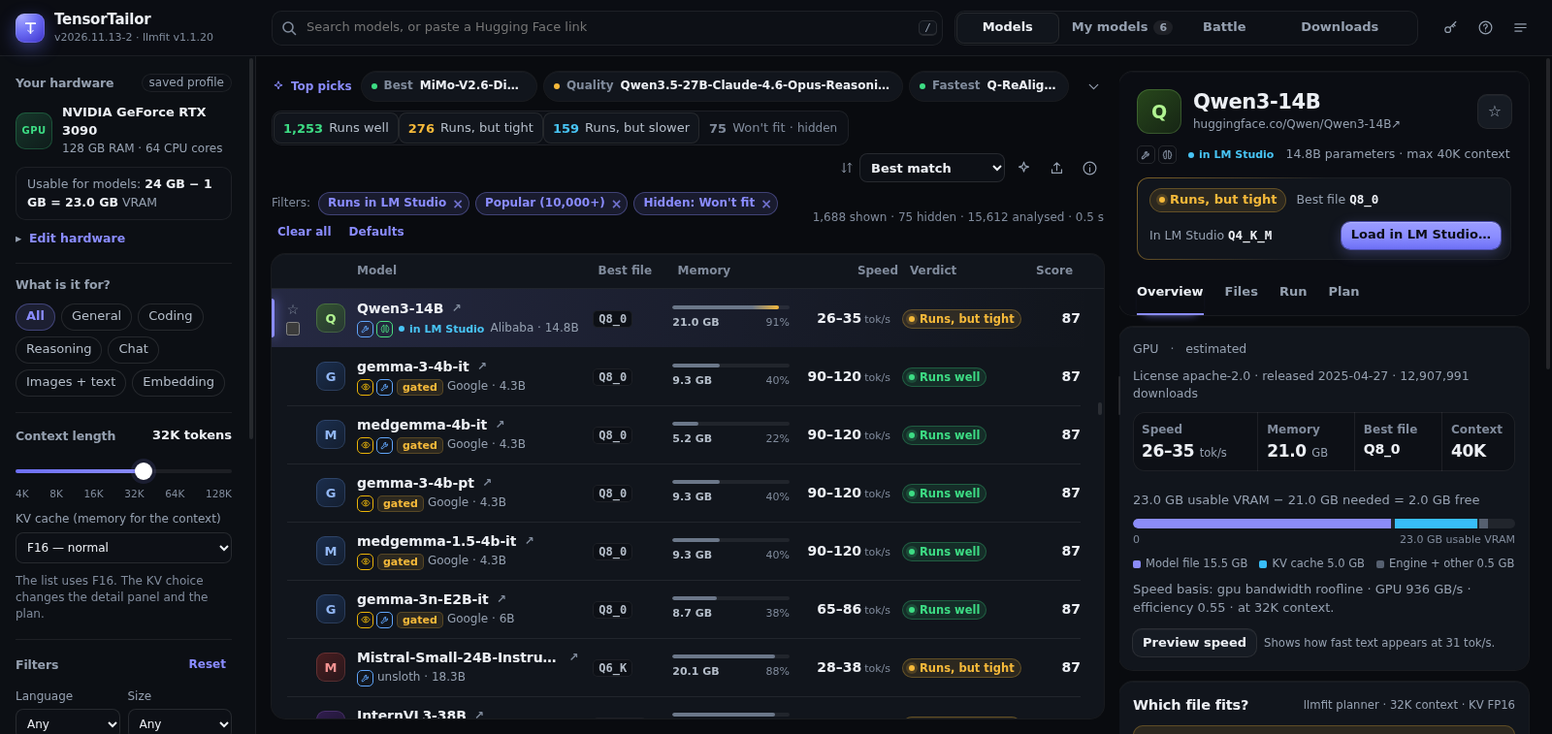
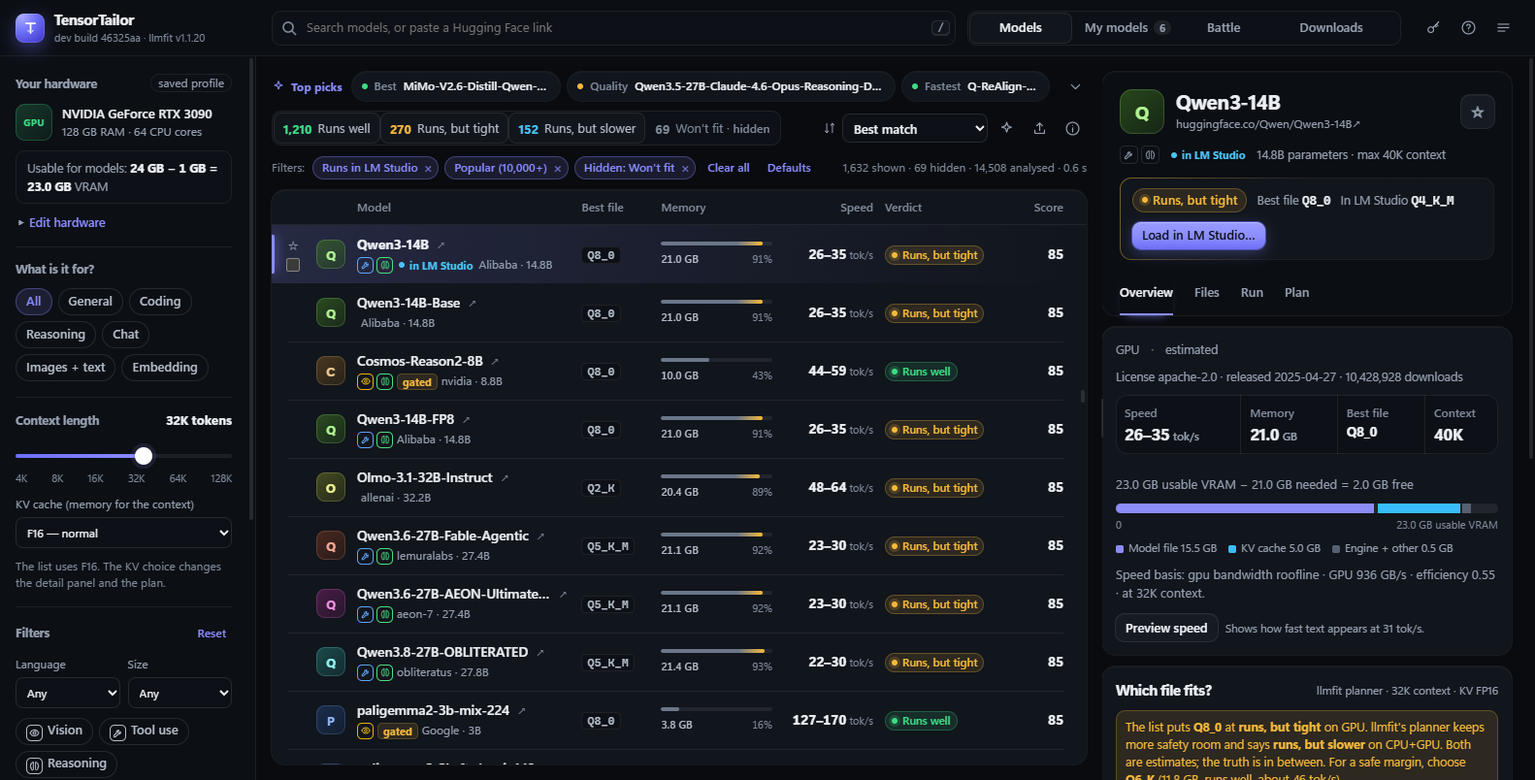
Implemented by Claude Opus 5.5: fix(web): column heads exactly above their columns; nothing runs over a cell
Found by the user (AutoRound-2bit over the Memory column, heads out of line)
and by an overflow scan of every view at 1366 and 1920 px:
- The head row gets the width of the list's scroll bar (syncColsGutter), so
  each head starts and ends with its column; Speed and Score heads are
  right-aligned above their numbers (user's choice: text left, numbers right).
- Long best-file names (AutoRound-2bit, GPTQ-Int4, AWQ-8bit) are smaller and
  break after their "-", in the list and in the detail panel.
- Speeds from 1,000 tok/s show without the unit, from 10,000 as "153k-204k".
- The label line under a name: the number of parameters always shows (the
  publisher may shorten); labels never shrink into cut words, a too full line
  leaves out whole labels (license, live, measured, NEW) and says which.
- Run tab commands wrap instead of being cut; a long Battle name gets 2 lines;
  the full model name is in the row's tooltip.
Help: Speed, "A full label line". Test step "Layout" in tools/test-review3.json.

diff --git a/web/app.html b/web/app.html
@@ -267,9 +267,13 @@ input[type="range"] { width: 100%; accent-color: var(--accent); }
 .m-name .nm { font-weight: 600; display: flex; gap: 5px; align-items: center; white-space: nowrap; overflow: hidden; }
 .m-name .nm .t { overflow: hidden; text-overflow: ellipsis; }
 .m-name .sub { white-space: nowrap; overflow: hidden; display: flex; gap: 4px; align-items: center; margin-top: 2px; }
-.m-name .sub .idt { overflow: hidden; text-overflow: ellipsis; flex: 0 1 auto; min-width: 5.5em; }
+/* Publisher · parameters: the publisher may shorten ("pilcoth…"), the number of parameters always shows. */
+.m-name .sub .idt { display: inline-flex; overflow: hidden; flex: 0 1 auto; min-width: 5.5em; }
+.m-name .sub .idt .pub { cursor: default; overflow: hidden; text-overflow: ellipsis; white-space: nowrap; min-width: 1.5em; }
+.m-name .sub .idt .prm { flex: none; white-space: pre; }
 /* When a row has many labels, the labels give way before the maker and size do. */
-.m-name .sub .chip { flex-shrink: 3; min-width: 0; overflow: hidden; }
+/* Labels never shrink into cut words; when the line is too full, fitSubs() leaves out whole low-priority labels. */
+.m-name .sub .chip { flex-shrink: 0; }
 .hf-link { color: var(--faint); text-decoration: none; font-size: 12px; padding: 0 3px; border-radius: 4px; flex: none; }
 .hf-link:hover { color: var(--accent); background: var(--accent-soft); }
 .chip { font-weight: 650; padding: 0 6px; border-radius: 5px; line-height: 17px; white-space: nowrap; flex: none; }
@@ -381,7 +385,8 @@ input[type="range"] { width: 100%; accent-color: var(--accent); }
 .fname { font: 12px var(--mono); word-break: break-all; }
 .hash { font: 11px var(--mono); color: var(--faint); word-break: break-all; }
 .cmd { display: flex; align-items: center; gap: 8px; padding: 8px 8px 8px 10px; margin-top: 8px; border-radius: 9px; background: var(--panel-2); border: 1px solid var(--line); }
-.cmd code { flex: 1; white-space: nowrap; overflow: hidden; text-overflow: ellipsis; }
+/* A command is shown whole (it wraps), so you can read what you copy. */
+.cmd code { flex: 1; min-width: 0; white-space: pre-wrap; overflow-wrap: anywhere; }
 .cmd .who { color: var(--faint); min-width: 60px; }
 pre.block { margin: 8px 0 0; padding: 10px; border-radius: 9px; background: var(--panel-2); border: 1px solid var(--line); font: 12px/1.5 var(--mono); white-space: pre; overflow: auto; }
 .seg { display: inline-flex; padding: 3px; gap: 2px; border-radius: 9px; background: var(--panel-2); border: 1px solid var(--line); }
@@ -692,6 +697,14 @@ input[type="range"]:focus-visible::-webkit-slider-thumb { box-shadow: 0 0 0 4px 
 /* Rows: monogram, star and compare box on hover, memory with GB and %, speed on one line, a small score ring. */
 .cols, .row { grid-template-columns: 24px 30px minmax(170px, 2.3fr) 70px minmax(112px, 1.2fr) 92px 118px 54px; gap: 12px; padding: 0 16px 0 10px; }
 .cols { height: 36px; border-bottom: 1px solid var(--line); }
+/* The list has a scroll bar, the head row has none: the head gets the same room at its right (--sbw, set by
+   syncColsGutter), so every head stands exactly above its column. */
+.cols { padding-right: calc(16px + var(--sbw, 0px)); }
+/* A long best-file name (AutoRound-2bit, GPTQ-Int4, AWQ-8bit) is smaller and breaks after its "-" instead of
+   running over the Memory column. */
+.row .quant.long { display: inline-block; max-width: 100%; white-space: normal; font-size: 10px; line-height: 1.25; padding: 2px 4px; }
+.stat .v.wide-num { font-size: 16px; }
+.stat .v.long { white-space: normal; overflow: visible; text-overflow: clip; font-size: 11.5px !important; line-height: 1.25; overflow-wrap: break-word; }
 .row { border-bottom: 0; position: relative; transition: background .15s; }
 .row::before { content: ""; position: absolute; left: 16px; right: 16px; top: 0; height: 1px; background: var(--line); }
 .row:hover { background: var(--hover); }
@@ -860,7 +873,7 @@ input[type="range"]:focus-visible::-webkit-slider-thumb { box-shadow: 0 0 0 4px 
 .place { font: 650 12px var(--font); color: var(--faint); }
 .fhead { display: flex; align-items: center; gap: 12px; margin-top: 8px; }
 .fname-b { min-width: 0; }
-.fhead h3 { margin: 0; font: 650 16px var(--display); white-space: nowrap; overflow: hidden; text-overflow: ellipsis; }
+.fhead h3 { margin: 0; font: 650 16px var(--display); overflow: hidden; display: -webkit-box; -webkit-line-clamp: 2; -webkit-box-orient: vertical; overflow-wrap: anywhere; }
 .fighter .hash { font-family: var(--font); font-size: 12px; color: var(--muted); }
 .pts { font: 700 44px/1 var(--display); letter-spacing: -.04em; margin: 16px 0 12px; }
 .pts small { font: 600 13px var(--font); color: var(--muted); letter-spacing: 0; }
@@ -1140,7 +1153,7 @@ details.by-hand .hint { margin-top: 6px; }
     <div class="filter-row"><div class="active-filters" id="activeFilters"></div><div class="count" id="countText"></div></div>
     <div class="search-bar" id="searchBar" hidden></div>
     <div class="table">
-      <div class="cols" aria-hidden="true"><span></span><span></span><span title="Model name, its labels, who made it and its size (B = billion parameters)">Model</span><span title="The quantization llmfit picks for this PC">Best file</span><span title="Grey = in VRAM (amber end: little room left). Orange stripes = in system RAM (slower); then the bar is everything the model needs, to scale. Point at a bar for its numbers.">Memory</span><span class="r" title="Tokens per second">Speed</span><span title="How well it runs on this PC">Verdict</span><span title="llmfit's match score, 0–100">Score</span></div>
+      <div class="cols" id="cols" aria-hidden="true"><span></span><span></span><span title="Model name, its labels, who made it and its size (B = billion parameters)">Model</span><span title="The quantization llmfit picks for this PC">Best file</span><span title="Grey = in VRAM (amber end: little room left). Orange stripes = in system RAM (slower); then the bar is everything the model needs, to scale. Point at a bar for its numbers.">Memory</span><span class="r" title="Tokens per second">Speed</span><span title="How well it runs on this PC">Verdict</span><span class="r" title="llmfit's match score, 0–100">Score</span></div>
       <div class="rows" id="rows" role="listbox" aria-label="Models"><div class="sk-row" aria-hidden="true"><i class="sk" style="width:30px;height:30px;border-radius:9px"></i><span><i class="sk" style="width:45%;height:12px"></i><i class="sk" style="width:34%;height:9px;margin-top:7px"></i></span><i class="sk" style="height:20px"></i><i class="sk" style="height:6px"></i><i class="sk" style="height:12px"></i><i class="sk" style="height:20px;border-radius:99px"></i><i class="sk" style="height:12px"></i></div><div class="sk-row" aria-hidden="true"><i class="sk" style="width:30px;height:30px;border-radius:9px"></i><span><i class="sk" style="width:62%;height:12px"></i><i class="sk" style="width:34%;height:9px;margin-top:7px"></i></span><i class="sk" style="height:20px"></i><i class="sk" style="height:6px"></i><i class="sk" style="height:12px"></i><i class="sk" style="height:20px;border-radius:99px"></i><i class="sk" style="height:12px"></i></div><div class="sk-row" aria-hidden="true"><i class="sk" style="width:30px;height:30px;border-radius:9px"></i><span><i class="sk" style="width:79%;height:12px"></i><i class="sk" style="width:34%;height:9px;margin-top:7px"></i></span><i class="sk" style="height:20px"></i><i class="sk" style="height:6px"></i><i class="sk" style="height:12px"></i><i class="sk" style="height:20px;border-radius:99px"></i><i class="sk" style="height:12px"></i></div><div class="sk-row" aria-hidden="true"><i class="sk" style="width:30px;height:30px;border-radius:9px"></i><span><i class="sk" style="width:56%;height:12px"></i><i class="sk" style="width:34%;height:9px;margin-top:7px"></i></span><i class="sk" style="height:20px"></i><i class="sk" style="height:6px"></i><i class="sk" style="height:12px"></i><i class="sk" style="height:20px;border-radius:99px"></i><i class="sk" style="height:12px"></i></div><div class="sk-row" aria-hidden="true"><i class="sk" style="width:30px;height:30px;border-radius:9px"></i><span><i class="sk" style="width:73%;height:12px"></i><i class="sk" style="width:34%;height:9px;margin-top:7px"></i></span><i class="sk" style="height:20px"></i><i class="sk" style="height:6px"></i><i class="sk" style="height:12px"></i><i class="sk" style="height:20px;border-radius:99px"></i><i class="sk" style="height:12px"></i></div><div class="sk-row" aria-hidden="true"><i class="sk" style="width:30px;height:30px;border-radius:9px"></i><span><i class="sk" style="width:50%;height:12px"></i><i class="sk" style="width:34%;height:9px;margin-top:7px"></i></span><i class="sk" style="height:20px"></i><i class="sk" style="height:6px"></i><i class="sk" style="height:12px"></i><i class="sk" style="height:20px;border-radius:99px"></i><i class="sk" style="height:12px"></i></div><div class="sk-row" aria-hidden="true"><i class="sk" style="width:30px;height:30px;border-radius:9px"></i><span><i class="sk" style="width:67%;height:12px"></i><i class="sk" style="width:34%;height:9px;margin-top:7px"></i></span><i class="sk" style="height:20px"></i><i class="sk" style="height:6px"></i><i class="sk" style="height:12px"></i><i class="sk" style="height:20px;border-radius:99px"></i><i class="sk" style="height:12px"></i></div><div class="sk-row" aria-hidden="true"><i class="sk" style="width:30px;height:30px;border-radius:9px"></i><span><i class="sk" style="width:84%;height:12px"></i><i class="sk" style="width:34%;height:9px;margin-top:7px"></i></span><i class="sk" style="height:20px"></i><i class="sk" style="height:6px"></i><i class="sk" style="height:12px"></i><i class="sk" style="height:20px;border-radius:99px"></i><i class="sk" style="height:12px"></i></div><div class="sk-row" aria-hidden="true"><i class="sk" style="width:30px;height:30px;border-radius:9px"></i><span><i class="sk" style="width:61%;height:12px"></i><i class="sk" style="width:34%;height:9px;margin-top:7px"></i></span><i class="sk" style="height:20px"></i><i class="sk" style="height:6px"></i><i class="sk" style="height:12px"></i><i class="sk" style="height:20px;border-radius:99px"></i><i class="sk" style="height:12px"></i></div></div>
     </div>
     <div class="tray" id="tray" hidden>
@@ -1243,7 +1256,7 @@ details.by-hand .hint { margin-top: 6px; }
       <dt>Model</dt><dd>The name (↗ opens it on Hugging Face), its labels and icons (see below), the publisher and the number of parameters: B = billion, M = million. More parameters usually means smarter, but bigger and slower. The star makes it a favorite; the box selects it for compare or battle. Both show when you point at a row, and stay on the chosen row, on a starred model and on a ticked box.</dd>
       <dt>Best file</dt><dd>The quantization (file version) llmfit picks for this PC. Q8_0 is close to the original quality; Q6, Q5, Q4, Q3, Q2 are smaller and faster, but less precise. F16/BF16 = original size. When the list area is narrow (below about 780 px: a laptop screen, or a wide detail panel), this column is left out; the detail panel shows it.</dd>
       <dt>Memory</dt><dd>The memory bar (see above), with the memory the model needs.</dd>
-      <dt>Speed</dt><dd>Tokens per second (a token is about ¾ of a word). A range, because it is an estimate. About 7 tok/s is reading pace. A model that won't fit shows "—": it has no speed on this PC.</dd>
+      <dt>Speed</dt><dd>Tokens per second (a token is about ¾ of a word). A range, because it is an estimate. About 7 tok/s is reading pace. A model that won't fit shows "—": it has no speed on this PC. Very fast small models (1,000 tok/s and more) show only the numbers, from 10,000 tok/s in thousands ("13k–17k"), so they fit the column.</dd>
       <dt>Verdict</dt><dd>How well it runs here. Under it, where it runs: CPU+GPU, MoE offload or CPU. No line means GPU (everything in VRAM).</dd>
       <dt>Score</dt><dd>llmfit's match for this PC, 0 to 100, built from quality, speed, fit and context.</dd>
       <dt>Chosen row</dt><dd>The model you clicked (or opened with <b>Show</b> or <b>View details</b>) has a purple tint and a glowing purple bar at its left edge; its details are on the right.</dd>
@@ -1265,6 +1278,7 @@ details.by-hand .hint { margin-top: 6px; }
       <dt><span class="chip lock">license</span> (amber)</dt><dd>The same kind of license, but not checked yet: the guess comes from the license name. Open the model and TensorTailor asks Hugging Face; the label then becomes <b>gated</b> or a grey <b>license</b>.</dd>
       <dt>Where "gated" comes from</dt><dd>The page carries Hugging Face's list of gated models from the day it was built (the weekly release makes a fresh one). When you open a model, TensorTailor also asks Hugging Face live and remembers that answer for 7 days. Point at a label to see where its answer comes from. The filter <b>No token needed</b> hides the gated models.</dd>
       <dt><span class="chip moe">MoE</span></dt><dd>Mixture of experts (see MoE offload).</dd>
+      <dt>A full label line</dt><dd>When a row in the list has more labels than room, it leaves out whole labels, the least important first: license, then live (or from LM Studio), measured and NEW. Point at the line to see which; the detail panel shows them all. Warnings (gated, size uncertain, vLLM, in LM Studio) and the number of parameters always stay.</dd>
       <dt><span class="chip upg">with upgrade</span></dt><dd>At the top of the detail panel when "What if I upgrade?" is on: the verdict, the numbers and the Run commands are for the upgraded PC. The Run tab says so too; switch the upgrade off for commands that fit your PC as it is now.</dd>
       <dt><span class="chip upg">upgrade</span></dt><dd>With the upgrade you switched on under "What if I upgrade?", this model fits fully in VRAM (runs well or runs, but tight); on your PC as it is now, it runs slower or does not fit.</dd>
       <dt><span class="chip meas">measured</span></dt><dd>The speed comes from real measurements on similar hardware (llmfit's own community results), not from an estimate. Your own measurements on this PC are shown separately: see "My models: Measure".</dd>
@@ -1855,7 +1869,8 @@ function avatar(m, big) {
   return `<span class="av${big ? " lg" : ""}" style="--h:${avatarHue(m.provider || m.id.split("/")[0])}" aria-hidden="true">${letter}</span>`;
 }
 const verdict = (p) => `<span class="badge ${PLAIN[p].cls}">${PLAIN[p].label}</span>`;
-const speedRange = (b) => (!b || b.tps <= 0 ? "—" : `${fmtT(b.lo)}–${fmtT(b.hi)}`);
+// From 10,000 tok/s (tiny test models) the range is in thousands, "153k–204k", so it fits every column.
+const speedRange = (b) => (!b || b.tps <= 0 ? "—" : b.hi >= 10000 ? `${Math.round(b.lo / 1000)}k–${Math.round(b.hi / 1000)}k` : `${fmtT(b.lo)}–${fmtT(b.hi)}`);
 const isNew = (m) => { if (!m.added) return false; const d = Date.parse(m.added); return isFinite(d) && Date.now() - d < 60 * 86400000; };
 // LM Studio key (e.g. "mistralai/codestral-22b-v0.1") vs catalog name (e.g.
 // "mistralai/Codestral-22B-v0.1"): same name, or the key ends with the model's
@@ -1897,11 +1912,11 @@ function rowHTML(r) {
   return `<div class="row ${b.plain === "nofit" ? "is-tight" : ""}" role="option" aria-selected="${m.id === state.selected}" data-id="${esc(m.id)}">
     <div class="row-acts"><button class="star" data-watch="${esc(m.id)}" aria-pressed="${state.watch.has(m.id)}" title="Favorite (W): star the models you like; see them all with 'Only my favorites'" aria-label="Favorite ${esc(m.name)}">${state.watch.has(m.id) ? "★" : "☆"}</button><input type="checkbox" data-cmp="${esc(m.id)}" ${state.compare.includes(m.id) ? "checked" : ""} title="Select for compare or battle (C)" aria-label="Select ${esc(m.name)}"></div>
     ${avatar(m)}
-    <div class="m-name"><div class="nm"><span class="t">${esc(m.name)}</span><a class="hf-link" href="${esc(hfHref(m.id))}" target="_blank" rel="noopener" title="${lmsOnly(m.id) ? "Search Hugging Face for this model" : "Open on Hugging Face"}" aria-label="${lmsOnly(m.id) ? "Search Hugging Face for" : "Open"} ${esc(m.name)}${lmsOnly(m.id) ? "" : " on Hugging Face"}">↗</a>${m.moe ? `<span class="chip moe" title="${esc(CHIP_TIP.moe)}">MoE</span>` : ""}${r.upgradeOnly ? `<span class="chip upg" title="${esc(CHIP_TIP.upg)}">upgrade</span>` : ""}</div>
-      <div class="sub">${capIcons(m.caps)}${isNew(m) ? `<span class="chip new" title="${esc(CHIP_TIP.new + (m.added ? " Released " + m.added + "." : ""))}">NEW</span>` : ""}${m.fromLms ? `<span class="chip live" title="${esc(CHIP_TIP.fromLms)}">from LM Studio</span>` : m.live ? `<span class="chip live" title="Fetched live from Hugging Face${m.live !== "yes" ? " on " + esc(m.live) : ""}, not in llmfit's list">live</span>` : ""}${String(b.conf).startsWith("measured") ? `<span class="chip meas" title="${esc(CHIP_TIP.meas)}">measured</span>` : ""}${m.runtime && m.runtime !== "LlamaCpp" ? `<span class="chip vllm" title="${esc(CHIP_TIP.runtime.replace("{rt}", m.runtime))}">${esc(m.runtime)}</span>` : ""}${lms && !m.fromLms ? `<span class="chip lms" title="${esc(CHIP_TIP.lms)}">in LM Studio</span>` : ""}${m.packed ? `<span class="chip lock" title="${esc(m.packed.text)}">size uncertain</span>` : ""}${licenseChip(m)}<span class="idt">${esc(m.provider)} · <span title="Number of parameters (B = billion, M = million)">${fmtParams(m.params)}</span></span></div></div>
-    <div title="Best file: the best quantization (file version) llmfit picks for this PC. Q8_0 = near original quality; lower numbers (Q4, Q3, Q2) = smaller and faster, but less precise."><span class="quant">${esc(b.q)}</span></div>
+    <div class="m-name"><div class="nm"><span class="t" title="${esc(m.id)}">${esc(m.name)}</span><a class="hf-link" href="${esc(hfHref(m.id))}" target="_blank" rel="noopener" title="${lmsOnly(m.id) ? "Search Hugging Face for this model" : "Open on Hugging Face"}" aria-label="${lmsOnly(m.id) ? "Search Hugging Face for" : "Open"} ${esc(m.name)}${lmsOnly(m.id) ? "" : " on Hugging Face"}">↗</a>${m.moe ? `<span class="chip moe" title="${esc(CHIP_TIP.moe)}">MoE</span>` : ""}${r.upgradeOnly ? `<span class="chip upg" title="${esc(CHIP_TIP.upg)}">upgrade</span>` : ""}</div>
+      <div class="sub">${capIcons(m.caps)}${isNew(m) ? `<span class="chip new" data-p="4" title="${esc(CHIP_TIP.new + (m.added ? " Released " + m.added + "." : ""))}">NEW</span>` : ""}${m.fromLms ? `<span class="chip live" data-p="2" title="${esc(CHIP_TIP.fromLms)}">from LM Studio</span>` : m.live ? `<span class="chip live" data-p="2" title="Fetched live from Hugging Face${m.live !== "yes" ? " on " + esc(m.live) : ""}, not in llmfit's list">live</span>` : ""}${String(b.conf).startsWith("measured") ? `<span class="chip meas" data-p="3" title="${esc(CHIP_TIP.meas)}">measured</span>` : ""}${m.runtime && m.runtime !== "LlamaCpp" ? `<span class="chip vllm" title="${esc(CHIP_TIP.runtime.replace("{rt}", m.runtime))}">${esc(m.runtime)}</span>` : ""}${lms && !m.fromLms ? `<span class="chip lms" title="${esc(CHIP_TIP.lms)}">in LM Studio</span>` : ""}${m.packed ? `<span class="chip lock" title="${esc(m.packed.text)}">size uncertain</span>` : ""}${licenseChip(m)}<span class="idt"><span class="pub" title="${esc(m.provider)}">${esc(m.provider)}</span><span class="prm"> · <span title="Number of parameters (B = billion, M = million)">${fmtParams(m.params)}</span></span></span></div></div>
+    <div title="Best file: ${esc(b.q)}. The best quantization (file version) llmfit picks for this PC. Q8_0 = near original quality; lower numbers (Q4, Q3, Q2) = smaller and faster, but less precise."><span class="quant${String(b.q).length > 7 ? " long" : ""}">${esc(b.q).replace(/-/g, "-<wbr>")}</span></div>
     <div class="membar${b.vram > 0 && b.inRam <= 0.05 && b.need / b.vram > 0.88 ? " hot" : ""}" title="${esc(memTip(b))}">${memBar(b)}<div class="memlabel"><span>${memLabelHtml(b)}</span>${b.vram > 0 && b.inRam <= 0.05 && b.plain !== "nofit" ? `<span class="pct">${Math.round(100 * Math.min(b.inGpu, b.vram) / b.vram)}%</span>` : ""}</div></div>
-    <div class="num tps" title="${esc(speedTip(b))}">${speedRange(b)}${b.tps > 0 ? "<small>tok/s</small>" : ""}</div>
+    <div class="num tps" title="${esc(speedTip(b))}">${speedRange(b)}${b.tps > 0 && b.hi < 1000 ? "<small>tok/s</small>" : ""}</div>
     <div title="${esc(VERDICT_TIP[b.plain] + "\nRuns on: " + b.mode + ".")}">${verdict(b.plain)}${b.mode !== "GPU" ? `<div class="mode">${b.mode}</div>` : ""}</div>
     <div title="${esc(`Score ${Math.round(b.score || 0)} of 100: llmfit's match for this PC.\nQuality ${Math.round(b.parts.quality)} · speed ${Math.round(b.parts.speed)} · fit ${Math.round(b.parts.fit)} · context ${Math.round(b.parts.context)} (each 0–100).`)}">${ring(b.score)}</div></div>`;
 }
@@ -1961,13 +1976,34 @@ function renderTiles(base) {
   base.forEach((r) => { counts[r.best.plain]++; if (r.upgradeOnly) extra[r.best.plain]++; });
   $("tiles").innerHTML = ["well", "tight", "slower", "nofit"].map((k) => `<button class="tile ${PLAIN[k].cls}" data-plain="${k}" aria-pressed="${state.show[k]}" title="Show or hide: ${PLAIN[k].label}"><span class="n">${counts[k].toLocaleString("en")}${extra[k] ? `<small>+${extra[k]} by upgrade</small>` : ""}</span><span class="l">${PLAIN[k].label}${state.show[k] ? "" : ` · <span class="off">hidden</span>`}</span></button>`).join("");
 }
+// The width of the list's scroll bar, given to the head row (see .cols), so heads and columns line up exactly.
+function syncColsGutter() {
+  const r = $("rows"), c = $("cols");
+  if (r && c) { const w = Math.max(0, r.offsetWidth - r.clientWidth); if (c.style.getPropertyValue("--sbw") !== w + "px") c.style.setProperty("--sbw", w + "px"); }
+}
+// A row's label line that is too full leaves out whole labels, least important first (data-p 1 license,
+// 2 live / from LM Studio, 3 measured, 4 NEW), instead of cutting words. Warnings (gated, size uncertain, vLLM,
+// in LM Studio) and the number of parameters stay. The row's tooltip names what was left out.
+function fitSubs() {
+  for (const sub of document.querySelectorAll("#rows .m-name .sub")) {
+    if (sub.scrollWidth <= sub.clientWidth + 1) continue;
+    const gone = [];
+    for (const c of [...sub.querySelectorAll(".chip[data-p]")].sort((a, b) => a.dataset.p - b.dataset.p)) {
+      c.style.display = "none"; gone.push(c.textContent);
+      if (sub.scrollWidth <= sub.clientWidth + 1) break;
+    }
+    if (gone.length) sub.title = "Not shown here for lack of room: " + gone.join(", ") + ". The detail panel shows them.";
+  }
+}
 function renderRowsWindow() {
+  syncColsGutter();
   const el = $("rows"), n = state.visible.length;
   if (!n) return;
   const focusKey = focusKeyOf(el);
   const top = el.scrollTop, h = el.clientHeight || 600;
   const start = Math.max(0, Math.floor(top / ROW_H) - 8), end = Math.min(n, Math.ceil((top + h) / ROW_H) + 8);
   el.innerHTML = `<div style="height:${n * ROW_H}px;position:relative"><div style="position:absolute;top:${start * ROW_H}px;left:0;right:0">${state.visible.slice(start, end).map(rowHTML).join("")}</div></div>`;
+  fitSubs();
   restoreFocus(focusKey);
 }
 // Keep keyboard focus on "the same" control when a part of the page is drawn again.
@@ -2216,9 +2252,9 @@ function tabOverview(r, d) {
     ${about.length ? `<div class="ov-about">${about.map(esc).join(" · ")}</div>` : ""}
     ${nameLine(r.m)}
     <div class="stats">
-      <div class="stat" title="Speed in tokens per second"><div class="k">Speed</div><div class="v">${speedRange(b)}${b.tps > 0 ? " <small>tok/s</small>" : ""}</div>${measLine(r)}</div>
+      <div class="stat" title="Speed in tokens per second"><div class="k">Speed${b.hi >= 1000 ? " (tok/s)" : ""}</div><div class="v${b.hi >= 1000 ? " wide-num" : ""}">${speedRange(b)}${b.tps > 0 && b.hi < 1000 ? " <small>tok/s</small>" : ""}</div>${measLine(r)}</div>
       <div class="stat" title="${bk.mode === "MoE offload" ? `Total: ${gb(bk.inGpu)} in VRAM + ${gb(bk.inRam)} of experts in system RAM` : "Model file + KV cache + engine"}"><div class="k">Memory</div><div class="v">${(bk.mode === "MoE offload" ? bk.inGpu + bk.inRam : bk.need).toFixed(1)} <small>GB</small></div></div>
-      <div class="stat"><div class="k">Best file</div><div class="v" style="font-size:14px" title="${esc(b.q)}">${esc(b.q)}</div></div>
+      <div class="stat"><div class="k">Best file</div><div class="v${String(b.q).length > 7 ? " long" : ""}" style="font-size:14px" title="${esc(b.q)}">${esc(b.q).replace(/-/g, "-<wbr>")}</div></div>
       <div class="stat" title="Context that still fits in this memory pool (llmfit: usable context)"><div class="k">Context</div><div class="v">${r.ctxFit > 0 && r.ctxFit < 1024 ? `${r.ctxFit} <small>tok</small>` : fmtCtx(r.ctxFit)}</div></div>
     </div>
     <div class="math">${mathLine(bk)}</div>
@@ -2293,8 +2329,9 @@ function needsToken(m) { const g = gatedOf(m.id); return g === undefined ? m.gat
 function licenseChip(m) {
   const g = gatedOf(m.id), lic = m.license ? CHIP_TIP.license.replace("{lic}", m.license) : "", src = gatedSource(m.id);
   if (g) return `<span class="chip lock" title="${esc(GATED_TIP.yes.replace("{src}", src) + (lic ? "\n\n" + lic : ""))}">gated</span>`;
-  if (g === false) return m.gated ? `<span class="chip" title="${esc(GATED_TIP.no.replace("{src}", src) + "\n\n" + lic)}">license</span>` : "";
-  return m.gated ? `<span class="chip lock" title="${esc(lic + "\n\n" + GATED_TIP.unknown)}">license</span>` : "";
+  // data-p="1": in a full list row, "license" is the first label left out (see fitSubs).
+  if (g === false) return m.gated ? `<span class="chip" data-p="1" title="${esc(GATED_TIP.no.replace("{src}", src) + "\n\n" + lic)}">license</span>` : "";
+  return m.gated ? `<span class="chip lock" data-p="1" title="${esc(lic + "\n\n" + GATED_TIP.unknown)}">license</span>` : "";
 }
 function hfHeaders() { return state.token ? { Authorization: "Bearer " + state.token } : {}; }
 async function hfJson(url) {
